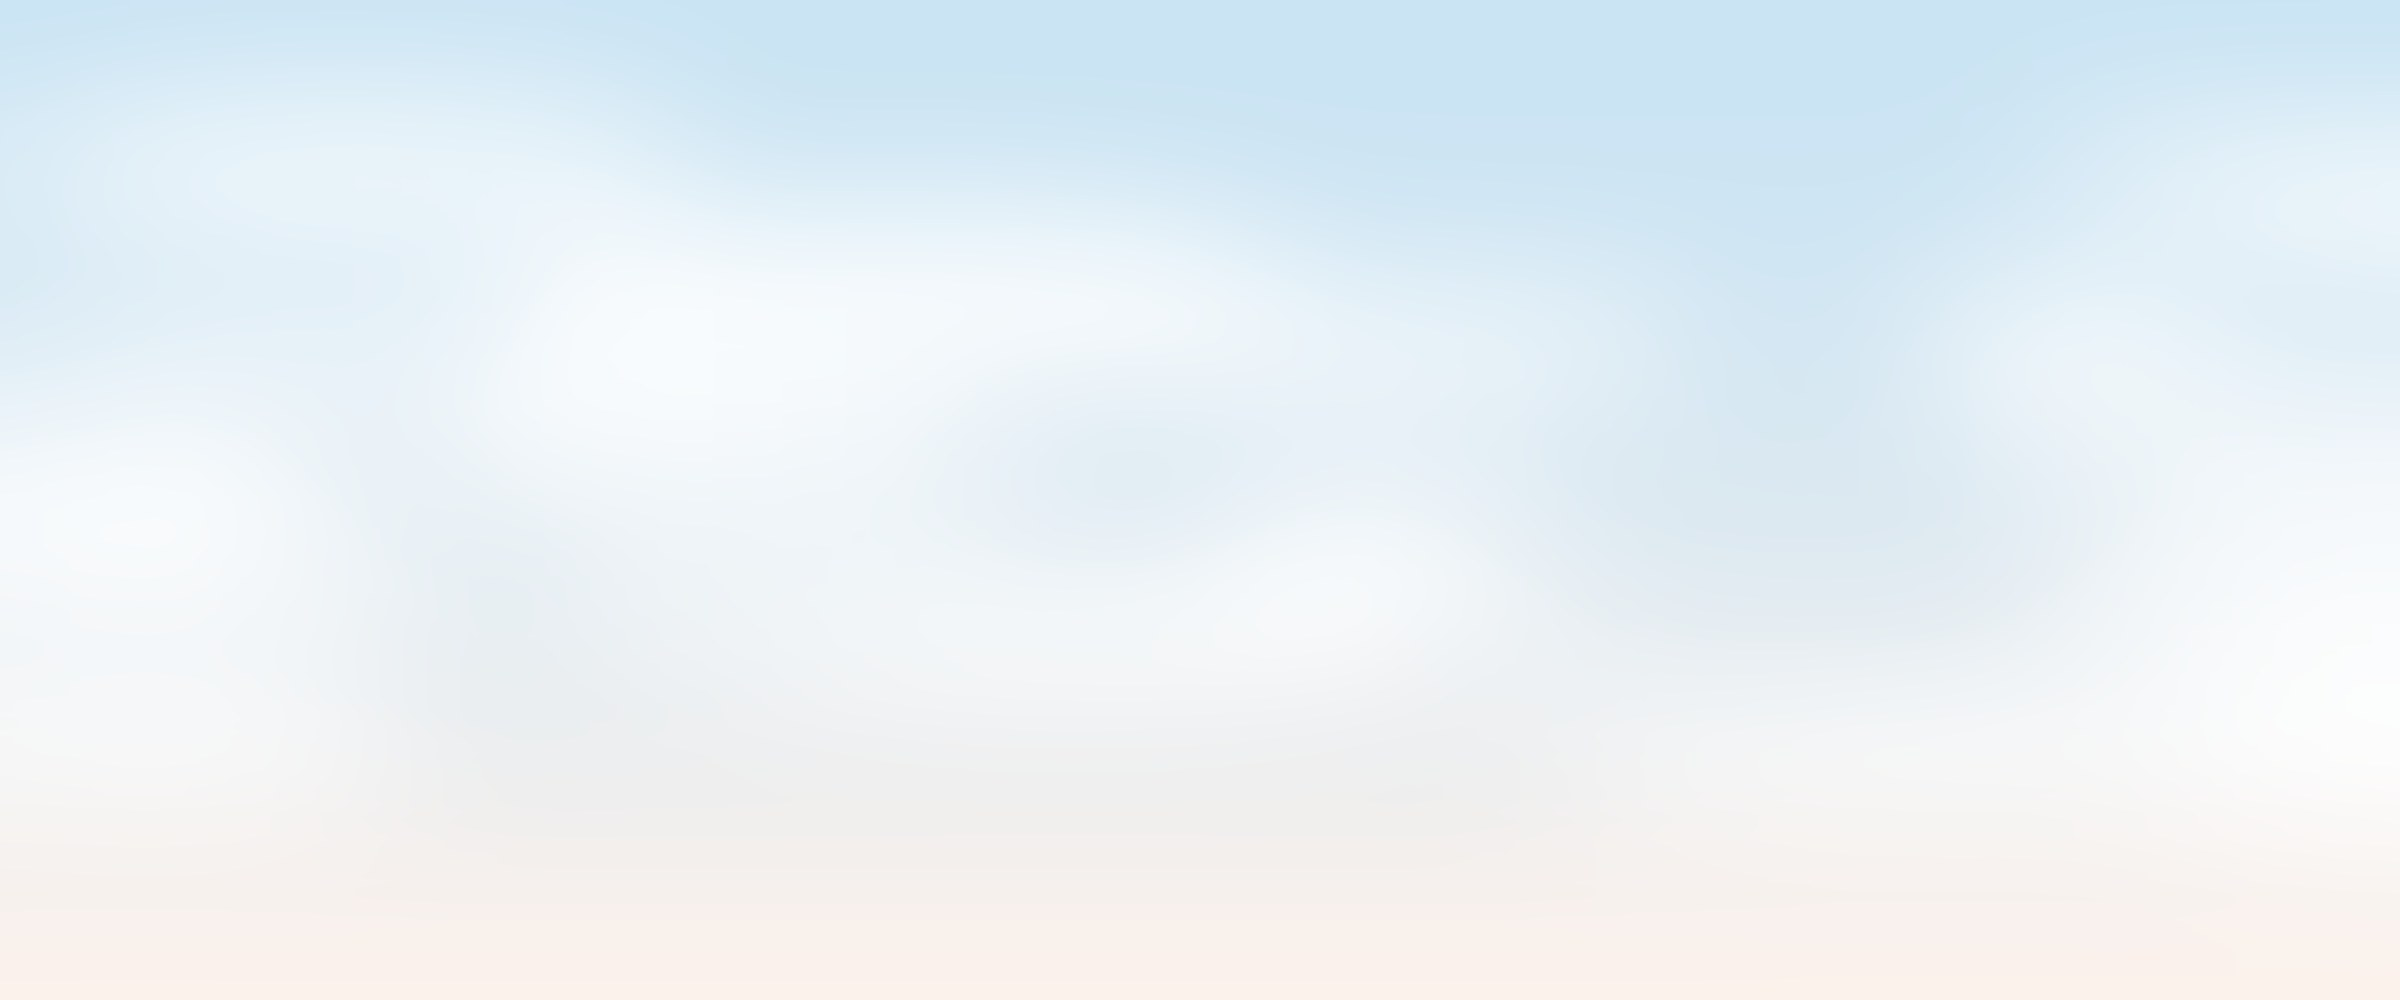
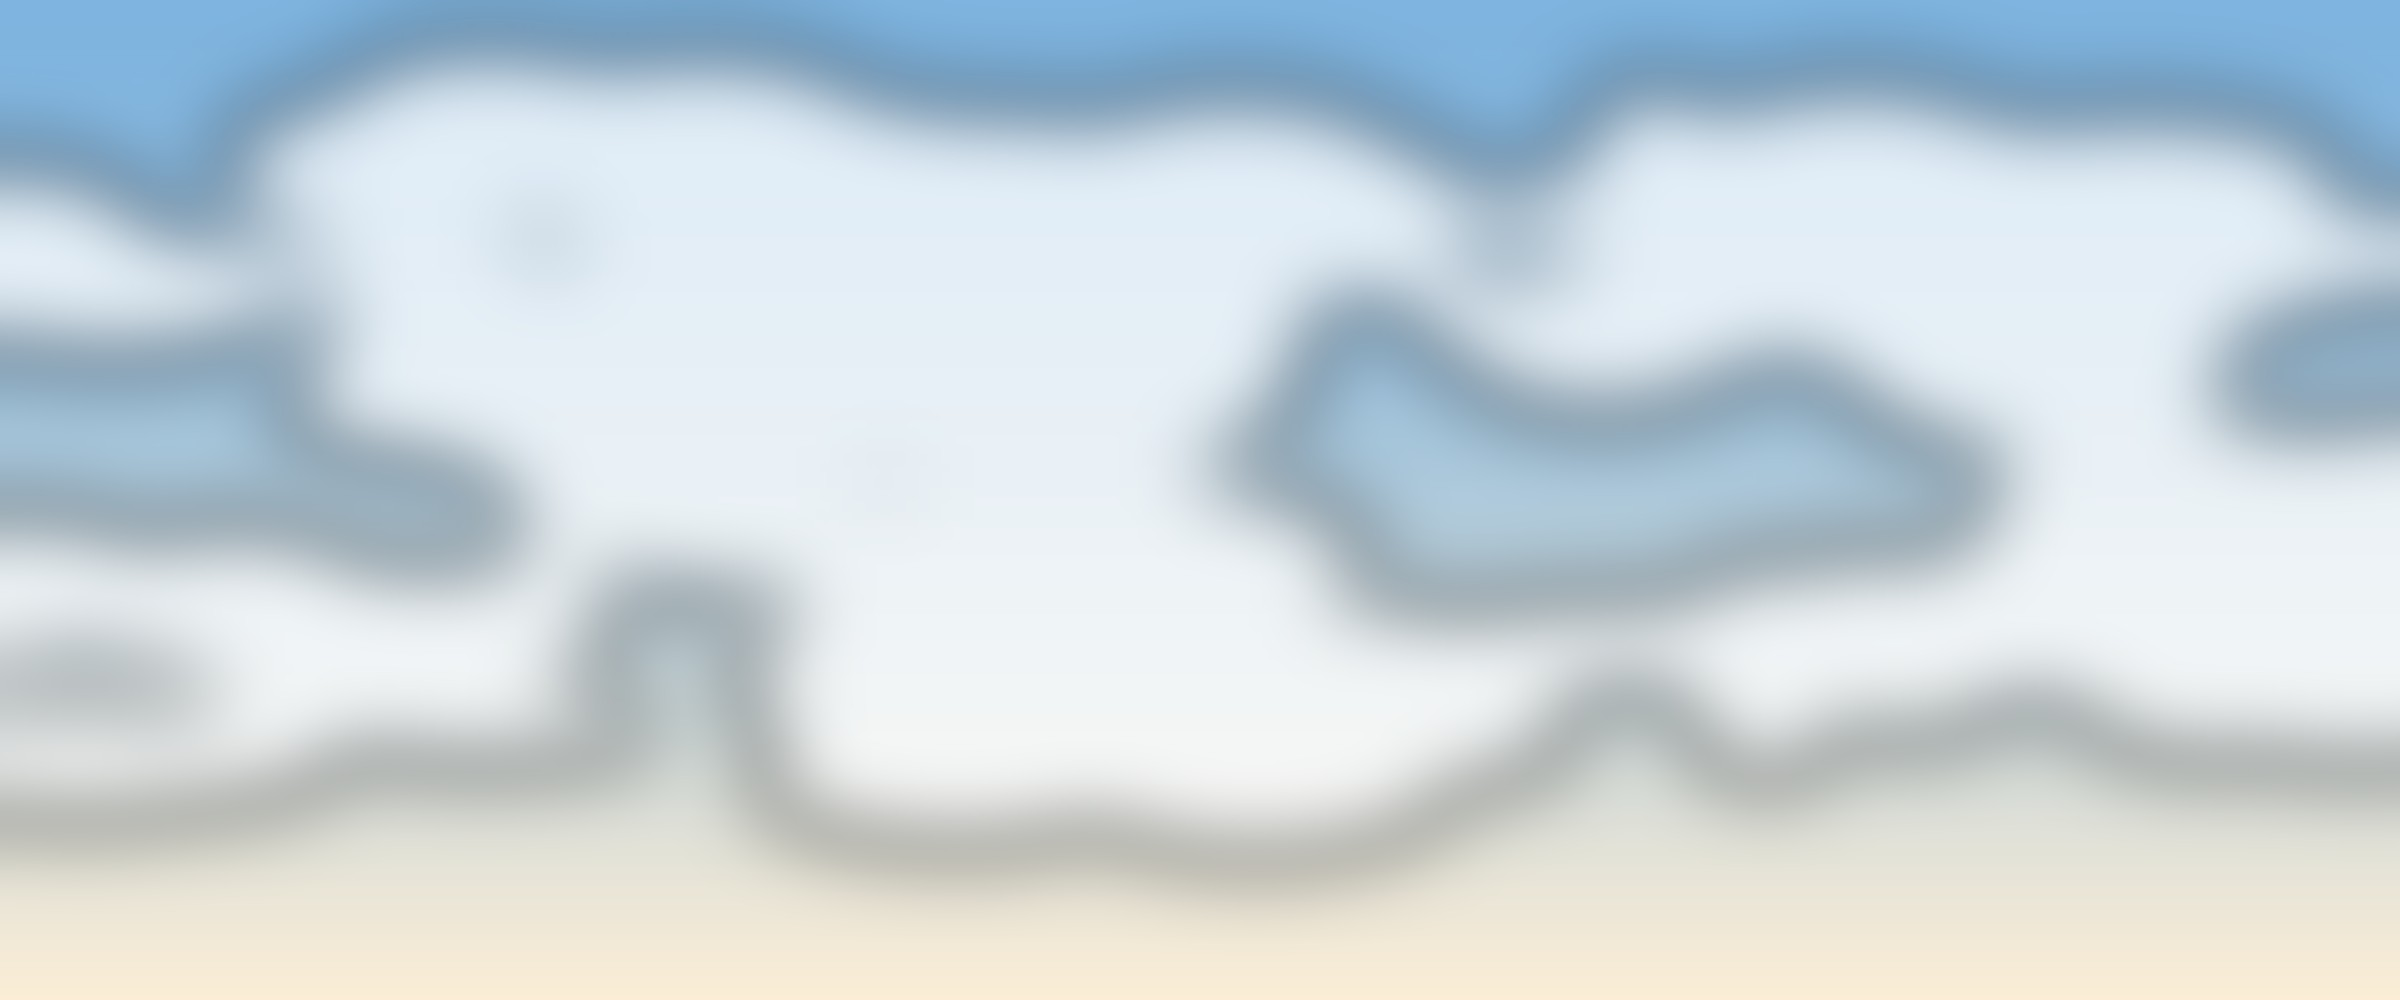
Fix sign-in 500, restore hero copy, reorder tributes
Sign-in
- the session cookie is now attached to the NextResponse rather than set
  through next/headers; mutating cookies() inside a Route Handler was the
  likely source of the 500 that followed a successful Firebase call
- DEBUG_AUTH=1 returns the real cause in the response body as well as the log
- password field no longer clears on a failed attempt, and an empty submit is
  caught before it reaches Firebase

Database
- strip sslmode from the connection string and configure TLS explicitly,
  clearing the node-postgres alias warning in the build log

Hero
- replaced the near-white placeholder sky with a visible one
  (public/images/hero-sky.jpg)
- name on a single line, followed by the roles, the years, and the
  remembrance line, all at reduced size

Layout
- tributes now appear above the composer
- footer remembrance line reduced and set in italic

diff --git a/src/components/MemorialHero.tsx b/src/components/MemorialHero.tsx
@@ -8,9 +8,6 @@ import { getProfile, lifespan, formatDate } from '@/lib/content';
 export default async function MemorialHero() {
   const profile = await getProfile();
   const years = lifespan(profile);
-  const nameParts = profile.fullName.trim().split(/\s+/);
-  const firstLine = nameParts.slice(0, Math.max(1, nameParts.length - 1)).join(' ');
-  const lastLine = nameParts.length > 1 ? nameParts[nameParts.length - 1] : '';
 
   return (
     <section className="relative isolate h-[52svh] min-h-[380px] w-full overflow-hidden">
@@ -22,23 +19,31 @@ export default async function MemorialHero() {
         sizes="100vw"
         className="object-cover"
       />
-      <div className="absolute inset-0 bg-gradient-to-r from-paper/80 via-paper/45 to-transparent" />
+      <div className="absolute inset-0 bg-gradient-to-r from-paper/85 via-paper/40 to-paper/5" />
 
       <div className="relative mx-auto flex h-full max-w-[1400px] items-center gap-8 px-5 py-8 md:px-10">
         <div className="min-w-0 flex-1">
           <p className="eyebrow text-deep">In loving memory of</p>
-          <h1 className="mt-3 font-display text-[clamp(1.9rem,5.2vw,4.2rem)] leading-[0.95] tracking-[-0.03em] text-ink">
-            <span className="block">{firstLine}</span>
-            {lastLine && <span className="block">{lastLine}</span>}
+
+          <h1 className="mt-2.5 font-display text-[clamp(1.6rem,4vw,3.1rem)] leading-[1.02] tracking-[-0.025em] text-ink">
+            {profile.fullName}
           </h1>
+
+          {profile.tagline && (
+            <p className="mt-3 font-util text-[0.66rem] uppercase tracking-[0.17em] text-ink/55 sm:text-[0.72rem]">
+              {profile.tagline}
+            </p>
+          )}
+
           {years && (
-            <p className="mt-4 font-util text-[0.72rem] uppercase tracking-[0.3em] text-ink/60 sm:text-sm">
+            <p className="mt-2.5 font-util text-[0.66rem] uppercase tracking-[0.26em] text-deep sm:text-[0.72rem]">
               {years}
             </p>
           )}
-          {profile.deathDate && (
-            <p className="mt-2 text-[0.9rem] text-ink/55">
-              Passed away {formatDate(profile.deathDate)}
+
+          {profile.heroQuote && (
+            <p className="mt-4 max-w-md font-display text-[clamp(0.95rem,1.6vw,1.15rem)] italic leading-snug text-ink/70">
+              “{profile.heroQuote}”
             </p>
           )}
         </div>

diff --git a/src/app/api/auth/session/route.ts b/src/app/api/auth/session/route.ts
@@ -1,7 +1,7 @@
 import { NextResponse } from 'next/server';
 import { getAuth } from 'firebase-admin/auth';
 import { adminApp, firebaseAdminConfigured, adminConfigProblem } from '@/lib/firebase';
-import { createSession, destroySession, isAllowed, allowedEmails } from '@/lib/auth';
+import { mintSessionToken, isAllowed, allowedEmails, SESSION_COOKIE, cookieOptions } from '@/lib/auth';
 
 export const runtime = 'nodejs';
 export const dynamic = 'force-dynamic';
@@ -9,7 +9,10 @@ export const dynamic = 'force-dynamic';
 /** Visitors never see the reason; it goes to the server log for whoever runs the site. */
 function refuse(status: number, publicMessage: string, logDetail: string) {
   console.error(`[sign-in] ${logDetail}`);
-  return NextResponse.json({ error: publicMessage }, { status });
+  // Set DEBUG_AUTH=1 in the environment to see the cause in the browser too.
+  const body: Record<string, unknown> = { error: publicMessage };
+  if (process.env.DEBUG_AUTH === '1') body.debug = logDetail;
+  return NextResponse.json(body, { status });
 }
 
 const UNAVAILABLE =
@@ -63,14 +66,18 @@ export async function POST(request: Request) {
       );
     }
 
-    await createSession({
+    const token = await mintSessionToken({
       uid: decoded.uid,
       email: decoded.email ?? '',
       name: decoded.name ?? decoded.email ?? '',
       picture: decoded.picture ?? '',
     });
 
-    return NextResponse.json({ ok: true });
+    // Attaching the cookie to the response is the reliable way to do this
+    // inside a Route Handler.
+    const response = NextResponse.json({ ok: true });
+    response.cookies.set(SESSION_COOKIE, token, cookieOptions);
+    return response;
   } catch (error) {
     return refuse(
       500,
@@ -81,10 +88,7 @@ export async function POST(request: Request) {
 }
 
 export async function DELETE() {
-  try {
-    await destroySession();
-  } catch {
-    /* clearing a cookie should never fail loudly */
-  }
-  return NextResponse.json({ ok: true });
+  const response = NextResponse.json({ ok: true });
+  response.cookies.set(SESSION_COOKIE, '', { ...cookieOptions, maxAge: 0 });
+  return response;
 }

diff --git a/src/lib/auth.ts b/src/lib/auth.ts
@@ -35,22 +35,35 @@ export function isAllowed(email: string | undefined | null): boolean {
   return list.includes(email.toLowerCase());
 }
 
-export async function createSession(session: Session): Promise<void> {
-  const token = await new SignJWT({ ...session, role: 'admin' })
+export const SESSION_COOKIE = COOKIE;
+
+export const cookieOptions = {
+  httpOnly: true,
+  secure: process.env.NODE_ENV === 'production',
+  sameSite: 'lax' as const,
+  path: '/',
+  maxAge: MAX_AGE,
+};
+
+/** Builds the token. The caller decides how to attach it. */
+export async function mintSessionToken(session: Session): Promise<string> {
+  return new SignJWT({
+    email: session.email,
+    name: session.name,
+    picture: session.picture,
+    role: 'admin',
+  })
     .setProtectedHeader({ alg: 'HS256' })
     .setSubject(session.uid)
     .setIssuedAt()
     .setExpirationTime(`${MAX_AGE}s`)
     .sign(secret());
+}
 
+export async function createSession(session: Session): Promise<void> {
+  const token = await mintSessionToken(session);
   const store = await cookies();
-  store.set(COOKIE, token, {
-    httpOnly: true,
-    secure: process.env.NODE_ENV === 'production',
-    sameSite: 'lax',
-    path: '/',
-    maxAge: MAX_AGE,
-  });
+  store.set(COOKIE, token, cookieOptions);
 }
 
 export async function destroySession(): Promise<void> {

diff --git a/src/components/admin/LoginForm.tsx b/src/components/admin/LoginForm.tsx
@@ -85,12 +85,17 @@ export default function LoginForm({ adminBase }: { adminBase: string }) {
       setError(UNAVAILABLE);
       return;
     }
+    if (!email.trim() || !password) {
+      setError('Enter both your email address and password.');
+      return;
+    }
     setBusy('password');
     try {
       const auth = clientAuth();
       await setPersistence(auth, browserLocalPersistence);
       const credential = await signInWithEmailAndPassword(auth, email.trim(), password);
       await establishSession(await credential.user.getIdToken());
+      setPassword('');
     } catch (err) {
       setError(describe(err));
       setBusy('idle');
@@ -122,7 +127,7 @@ export default function LoginForm({ adminBase }: { adminBase: string }) {
         <span className="h-px flex-1 bg-mist/20" />
       </div>
 
-      <form onSubmit={withPassword} className="space-y-4">
+      <form onSubmit={withPassword} className="space-y-4" noValidate>
         <div>
           <label htmlFor="email" className="field-label text-mist/60">
             Email address

diff --git a/src/components/SiteFooter.tsx b/src/components/SiteFooter.tsx
@@ -10,12 +10,12 @@ export default function SiteFooter({
   return (
     <footer className="border-t border-ink/10 bg-mist/40">
       <div className="mx-auto max-w-[1400px] px-5 py-16 md:px-10">
-        <p className="text-center font-display text-[clamp(1.5rem,3.5vw,2.4rem)] leading-[1.25] text-ink">
+        <p className="text-center font-display text-[clamp(1.05rem,2.1vw,1.5rem)] italic leading-[1.35] text-ink/80">
           {message}
           <span className="block text-deep">Forever missed.</span>
         </p>
 
-        <div className="mt-12 flex flex-col items-center gap-3 border-t border-ink/12 pt-7 font-util text-[0.7rem] uppercase tracking-[0.12em] text-ink/45 sm:flex-row sm:justify-between">
+        <div className="mt-10 flex flex-col items-center gap-3 border-t border-ink/12 pt-7 font-util text-[0.7rem] uppercase tracking-[0.12em] text-ink/45 sm:flex-row sm:justify-between">
           <p>
             © {new Date().getFullYear()} The family of {name}
           </p>

diff --git a/src/lib/db.ts b/src/lib/db.ts
@@ -12,12 +12,19 @@ function createPool() {
       'DATABASE_URL is not set. Add a Postgres connection string to your environment variables.'
     );
   }
+  const disableSsl = /sslmode=disable/.test(connectionString);
+  // Strip sslmode so node-postgres stops warning about mode aliasing; TLS is
+  // configured explicitly below instead.
+  const cleaned = connectionString.replace(/([?&])sslmode=[^&]*(&|$)/, (_m, prefix, tail) =>
+    tail === '&' ? prefix : ''
+  );
+
   return new Pool({
-    connectionString,
+    connectionString: cleaned,
     max: 3,
     idleTimeoutMillis: 10_000,
     connectionTimeoutMillis: 10_000,
-    ssl: connectionString.includes('sslmode=disable') ? false : { rejectUnauthorized: false },
+    ssl: disableSsl ? false : { rejectUnauthorized: false },
   });
 }
 

diff --git a/src/app/(site)/about/page.tsx b/src/app/(site)/about/page.tsx
@@ -122,8 +122,6 @@ export default async function AboutPage() {
           </p>
         </Reveal>
 
-        <TributeComposer />
-
         <section className="scroll-mt-28">
           <h2 className="text-[length:var(--text-title)]">Tributes</h2>
 
@@ -155,6 +153,8 @@ export default async function AboutPage() {
             </ul>
           )}
         </section>
+
+        <TributeComposer />
       </div>
 
       <MemorialSidebar />
